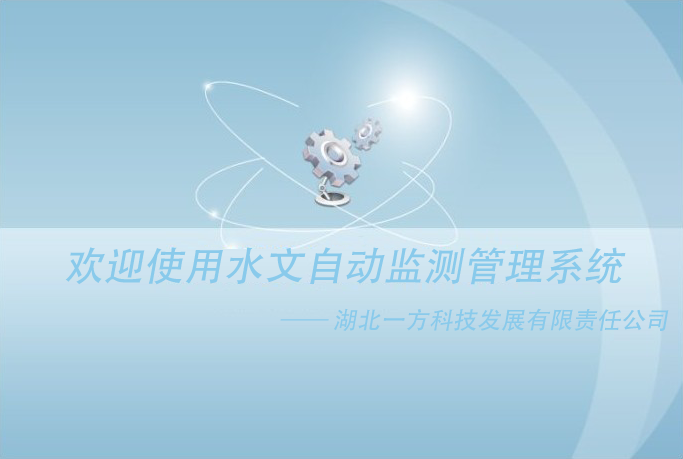
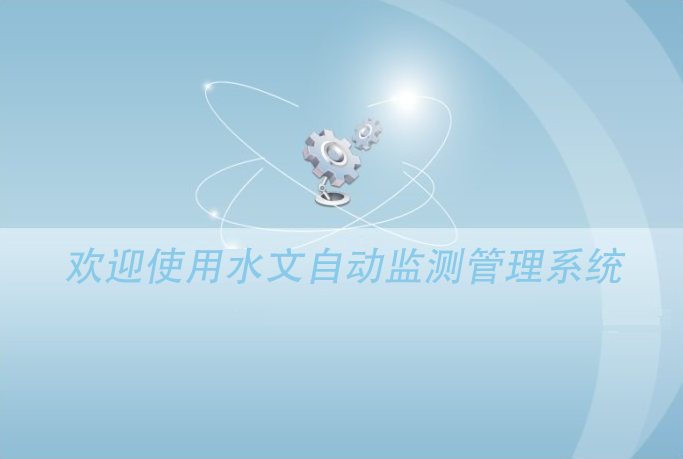
删除湖北一方科技发展有限公司

Changed region(s): [[0.4919, 0.671, 0.9839, 0.732], [0.4305, 0.671, 0.4612, 0.7015]]

diff --git a/Hydrology/MainForm.cs b/Hydrology/MainForm.cs
@@ -135,7 +135,7 @@ namespace Hydrology
                 m_timer.Tick += new EventHandler(EH_Timer);
                // m_timer_gsm.Tick += new EventHandler(EH_Timer_gsm);
 
-                this.CopyRightLabel.Text = "版权所有:湖北一方科技发展有限责任公司 V1.0 - LN   GSM数据接收：" + num1  +  "    BeiDou数据接收：" + num2;
+                this.CopyRightLabel.Text = "版权所有 V1.0 - WH   GSM数据接收：" + num1  +  "    BeiDou数据接收：" + num2;
                // this.CopyRightLabel.Text = Thread.CurrentThread.ManagedThreadId.ToString();
                 this.lblSysTimer.Alignment = ToolStripItemAlignment.Right;
                 //  初始化系统时间定时器
@@ -501,7 +501,7 @@ namespace Hydrology
             sr.Close();
             sr2.Close();
 
-            this.CopyRightLabel.Text = "版权所有:湖北一方科技发展有限责任公司 V1.0 - LN   GSM数据接收：" + gsmnum + "    BeiDou数据接收：" + bdnum;
+            this.CopyRightLabel.Text = "版权所有 V1.0 - WH   GSM数据接收：" + gsmnum + "    BeiDou数据接收：" + bdnum;
         }
         #endregion
 

diff --git a/Hydrology/MainForm.designer.cs b/Hydrology/MainForm.designer.cs
@@ -949,7 +949,7 @@
             this.IsMdiContainer = true;
             this.MainMenuStrip = this.menuStrip;
             this.Name = "MainForm";
-            this.Text = "水文自动监测管理系统——湖北一方科技发展有限责任公司 V1.0 - LN";
+            this.Text = "水文自动监测管理系统—— V1.0 - WH";
             this.MouseClick += new System.Windows.Forms.MouseEventHandler(this.MainForm_MouseClick);
             this.MouseEnter += new System.EventHandler(this.MainForm_MouseEnter);
             this.menuStrip.ResumeLayout(false);

diff --git a/Hydrology/Forms/FormHelper.cs b/Hydrology/Forms/FormHelper.cs
@@ -200,7 +200,7 @@ namespace Hydrology.Forms
                     break;
                 //gm 1203
                 case "关于":
-                    MessageBox.Show("水文自动监测管理系统 v1.0" + "\r\n" + "湖北一方科技发展有限责任公司");
+                    MessageBox.Show("水文自动监测管理系统 v1.0");
                     break;
                 case "帮助":
                     System.Diagnostics.Process.Start(Application.StartupPath.ToString() + "\\help.pdf");
